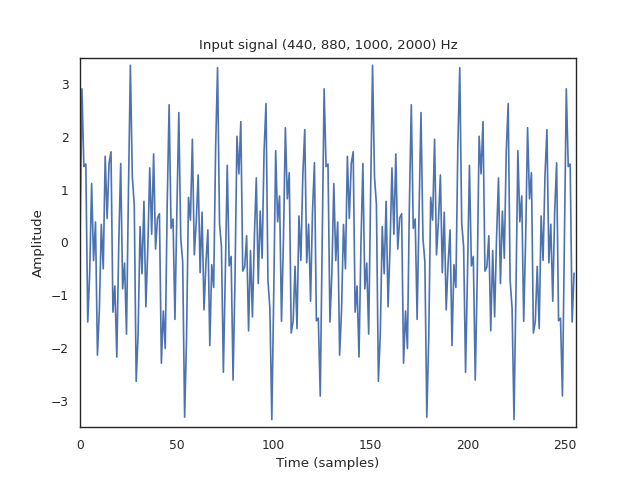
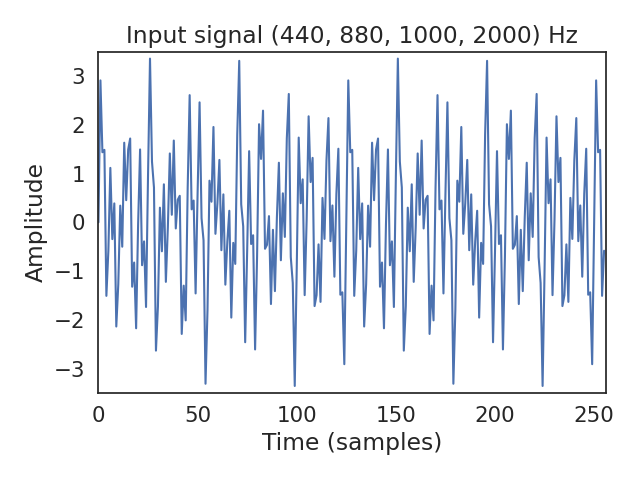
Updated plots

Changed region(s): [[0.0312, 0.0312, 0.9688, 0.9688]]

diff --git a/src/graphics/raw_signal_graph.py b/src/graphics/raw_signal_graph.py
@@ -50,9 +50,10 @@ if __name__ == '__main__':
     signal = container['sig']
     window = container['win']
     name = str(container['name'])
-    filtered = pointwise_np(signal, window)
+    filtered = pointwise_np(signal, window, {'float': np.float64, 'complex': np.complex128})
     sns.set_theme()
     sns.set_context("paper")
+    sns.set(font_scale=1.4)
     sns.set_style("white")
     sns.color_palette("colorblind")
 
